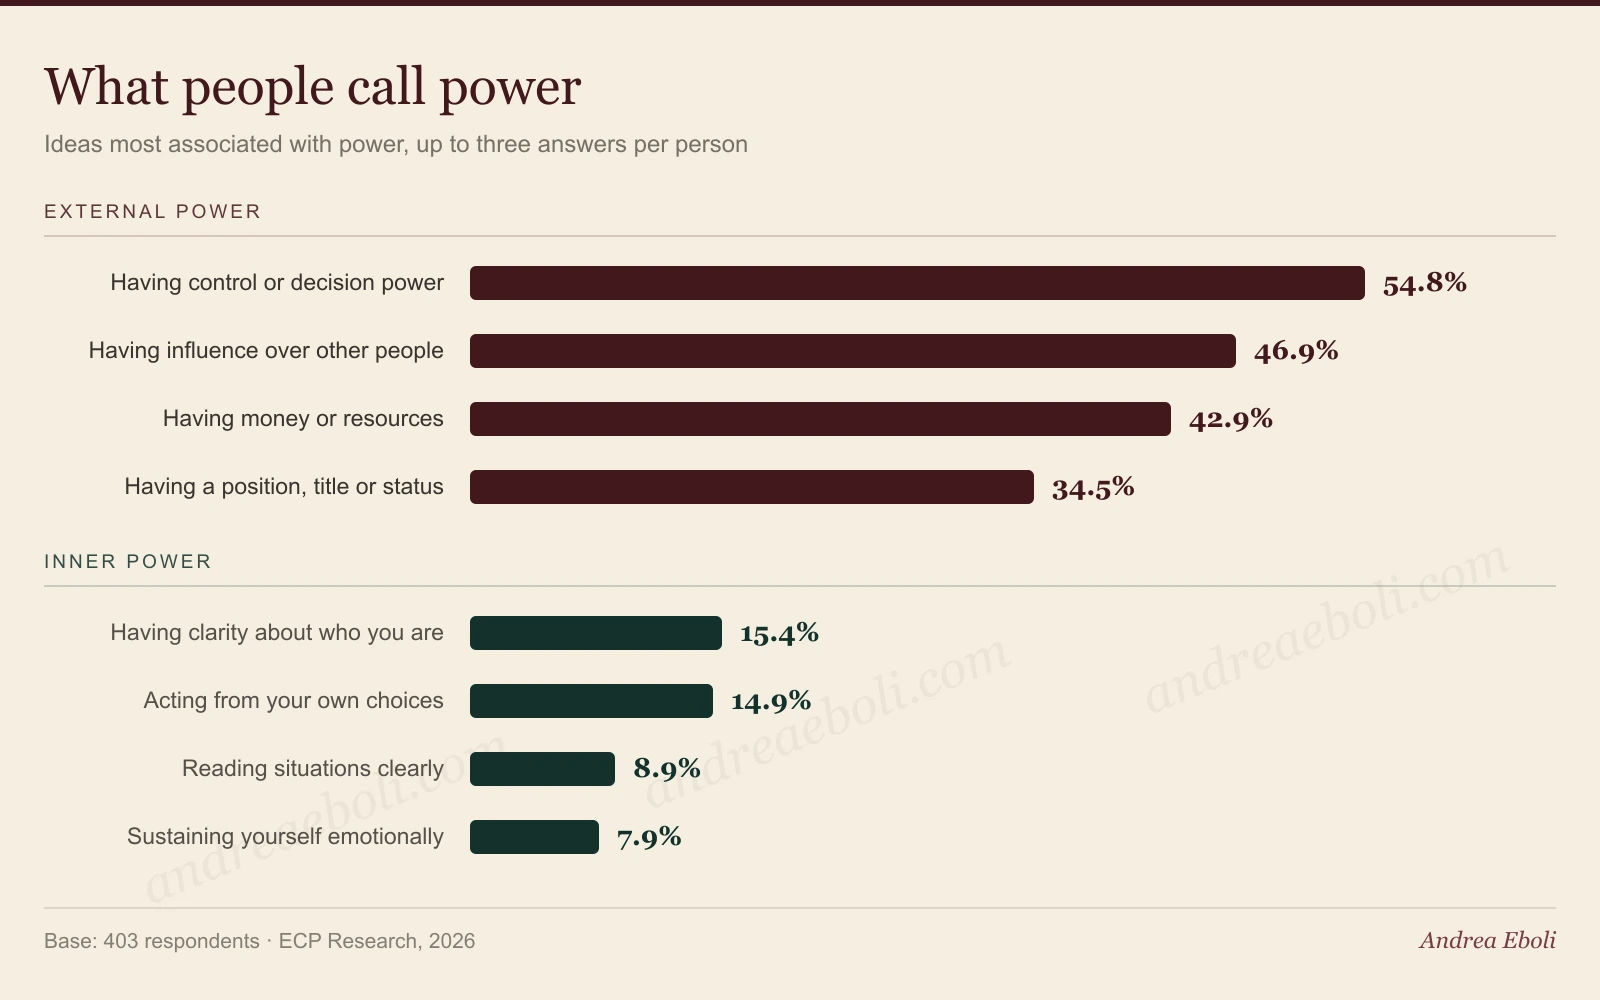
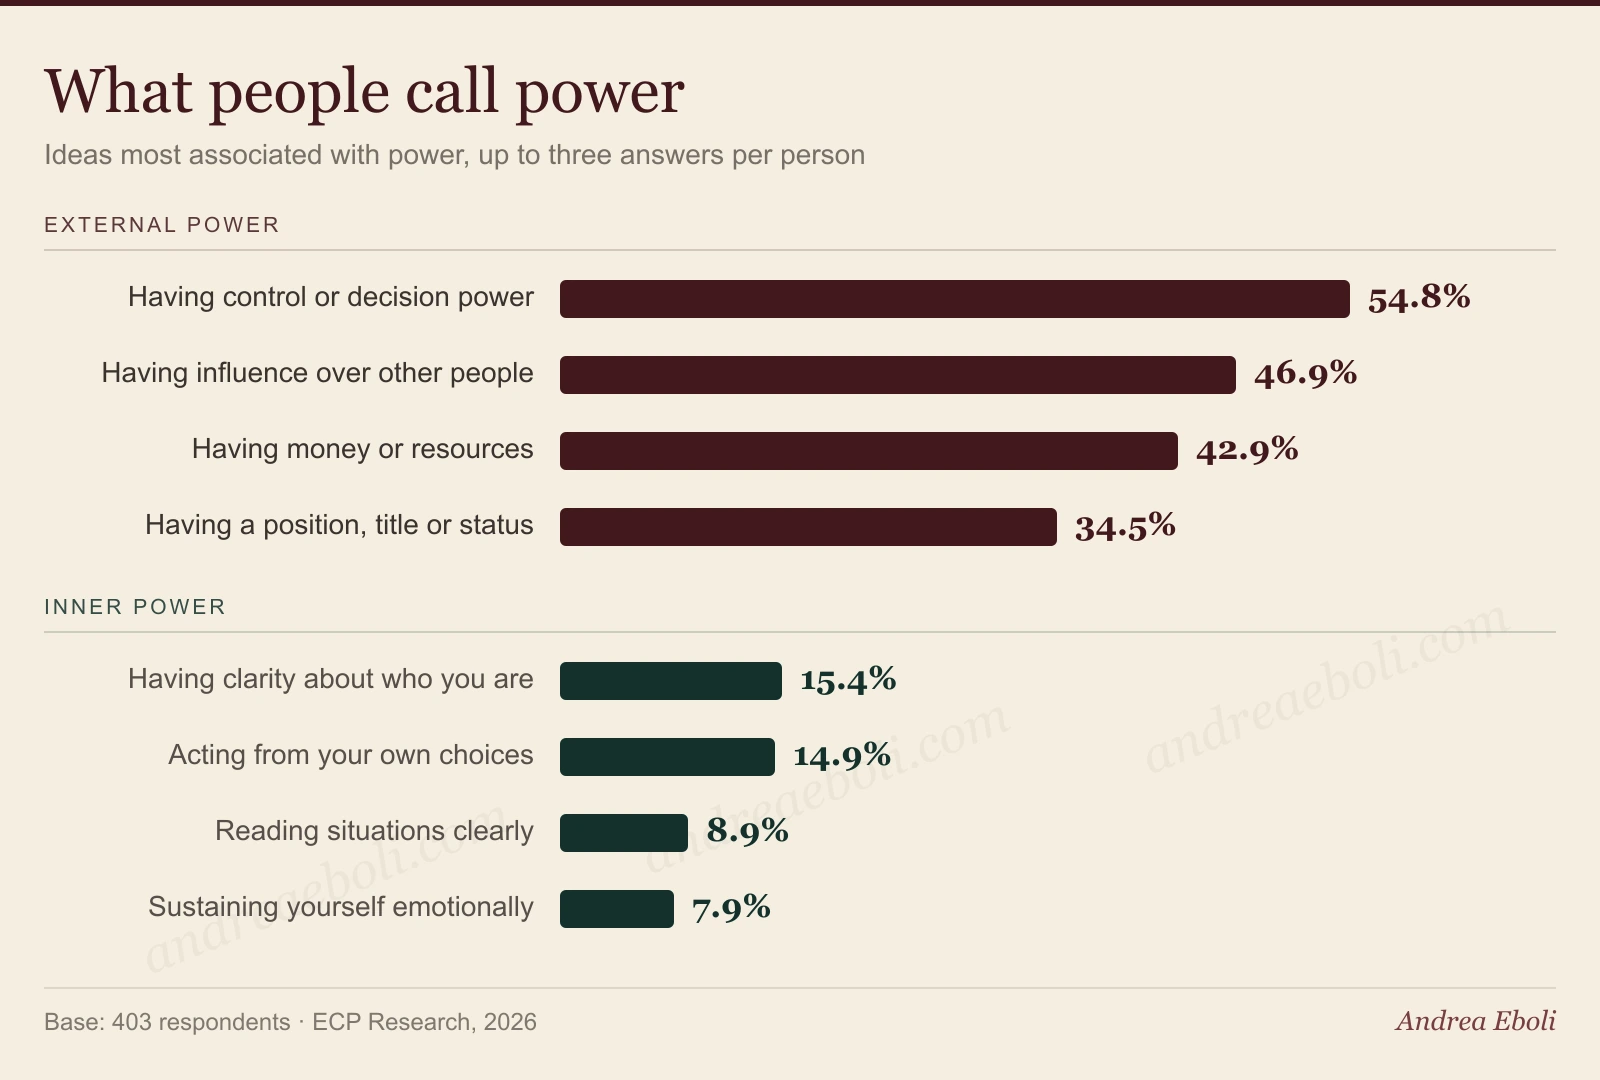
Deixa o gráfico da pesquisa legível
O gráfico ficava numa coluna estreita do grid e renderizava a 770px, enquanto
o desenho tinha sido feito para 1600px: na prática tudo caía para 48% do
tamanho e os rótulos das barras ficavam ilegíveis. Agora ele ocupa a largura
inteira da seção, com a amostra e a metodologia abaixo dele, e o desenho subiu
de escala.

No celular o gráfico não encolhe até sumir: mantém uma largura mínima e a
caixa rola na horizontal, com uma dica visível só em tela pequena. O sizes do
next/image acompanha essa largura, senão o Next servia um arquivo de 503px
esticado para 760 e a imagem saía borrada.

diff --git a/src/app/(site)/[locale]/pesquisa/page.tsx b/src/app/(site)/[locale]/pesquisa/page.tsx
@@ -167,40 +167,47 @@ export default async function Page({
         </div>
       </section>
 
-      {/* Gráfico principal + amostra e metodologia */}
+      {/* Gráfico principal + amostra e metodologia.
+          O gráfico ocupa a LARGURA INTEIRA: ele é o argumento da página, e
+          numa coluna estreita os rótulos das barras ficavam ilegíveis. A
+          metodologia desceu para baixo dele. */}
       <section className="bg-cream">
-        <div className="mx-auto grid max-w-6xl gap-12 px-6 py-20 md:grid-cols-[1.5fr_1fr] md:gap-16">
-          <div>
-            <Reveal>
-              <p className="kicker text-wine">{t("chartLabel")}</p>
-            </Reveal>
-            <Reveal delay={100}>
-              {/* A marca d'água está GRAVADA no arquivo. O select-none e o
-                  draggable={false} abaixo são só atrito: não existe forma de
-                  impedir a captura de uma imagem na web. */}
-              <div className="relative mt-5 select-none overflow-hidden rounded-2xl border border-ink/10 bg-bone">
-                <Image
-                  src={asset(CHART_BY_LOCALE[locale] ?? CHART_BY_LOCALE.pt)}
-                  alt={t("chartAlt")}
-                  width={1600}
-                  height={1000}
-                  draggable={false}
-                  className="pointer-events-none w-full"
-                />
-              </div>
-            </Reveal>
-          </div>
+        <div className="mx-auto max-w-6xl px-6 py-20">
+          <Reveal>
+            <p className="kicker text-wine">{t("chartLabel")}</p>
+          </Reveal>
+          <Reveal delay={100}>
+            {/* A marca d'água está GRAVADA no arquivo. O select-none e o
+                draggable={false} abaixo são só atrito: não existe forma de
+                impedir a captura de uma imagem na web. */}
+            {/* No celular o gráfico não cabe legível: em vez de encolher os
+                rótulos até sumirem, ele mantém uma largura mínima e a caixa
+                rola na horizontal. */}
+            <div className="relative mt-5 select-none overflow-x-auto rounded-2xl border border-ink/10 bg-bone">
+              <Image
+                src={asset(CHART_BY_LOCALE[locale] ?? CHART_BY_LOCALE.pt)}
+                alt={t("chartAlt")}
+                width={1600}
+                height={1080}
+                sizes="(max-width: 760px) 760px, (max-width: 1152px) 100vw, 1104px"
+                draggable={false}
+                className="pointer-events-none w-full min-w-[760px] max-w-none"
+              />
+            </div>
+            {/* A caixa acima rola no celular: sem esta linha ninguém descobre. */}
+            <p className="mt-3 text-xs text-muted sm:hidden">{t("chartScrollHint")}</p>
+          </Reveal>
 
-          <aside className="md:pt-9">
+          <div className="mt-12 grid gap-8 border-t border-ink/10 pt-10 md:grid-cols-[220px_1fr] md:gap-12">
             <Reveal delay={200}>
               <p className="kicker text-wine">{t("methodologyLabel")}</p>
-              <p className="mt-4 text-sm leading-relaxed text-ink-soft">
+            </Reveal>
+            <Reveal delay={260}>
+              <p className="max-w-3xl text-sm leading-relaxed text-ink-soft">
                 {t("method")}
               </p>
-            </Reveal>
 
-            {RESEARCH_URL && (
-              <Reveal delay={280}>
+              {RESEARCH_URL && (
                 <a
                   href={RESEARCH_URL}
                   target="_blank"
@@ -212,9 +219,9 @@ export default async function Page({
                     →
                   </span>
                 </a>
-              </Reveal>
-            )}
-          </aside>
+              )}
+            </Reveal>
+          </div>
         </div>
       </section>
 

diff --git a/.claude/MEMORIA-PROJETO.md b/.claude/MEMORIA-PROJETO.md
@@ -54,6 +54,17 @@ repositório). A página deixou de ser placeholder.
      (o comentário da página sempre pediu isso; CSS por cima é só atrito).
    - Metodologia e alt do gráfico escritos; placeholders e as chaves `soon` e
      `methodologySoon` foram apagados.
+   - ⚠ **O gráfico nasceu ilegível e foi refeito** (o Igor apontou). Duas causas:
+     ele estava numa coluna de `1.5fr` num grid, renderizando a 770px, e o
+     desenho fora feito para 1600px, ou seja, tudo caía para 48% do tamanho.
+     Agora o gráfico ocupa a **largura inteira** da seção (a metodologia desceu
+     para baixo dele) e o desenho subiu de escala (rótulos 23→28, valores
+     27→33, título 52→62, altura 1000→1080).
+     No **celular** ele não encolhe: mantém `min-w-[760px]` e a caixa rola na
+     horizontal, com a dica `chartScrollHint` visível só em tela pequena.
+     📌 E o `sizes` do `next/image` precisou casar com isso
+     (`(max-width: 760px) 760px, ...`): com `100vw` o Next servia um arquivo de
+     503px esticado para 760 e a imagem saía borrada no celular.
 3. 🐛 **Bug achado e corrigido de quebra:** a `/videos` publicada mostrava o
    texto cru **"banner.kicker"** no hero, nos 3 idiomas. Era resquício da
    remoção do kicker em 19/08 (o namespace `banner` foi apagado, a chamada em
